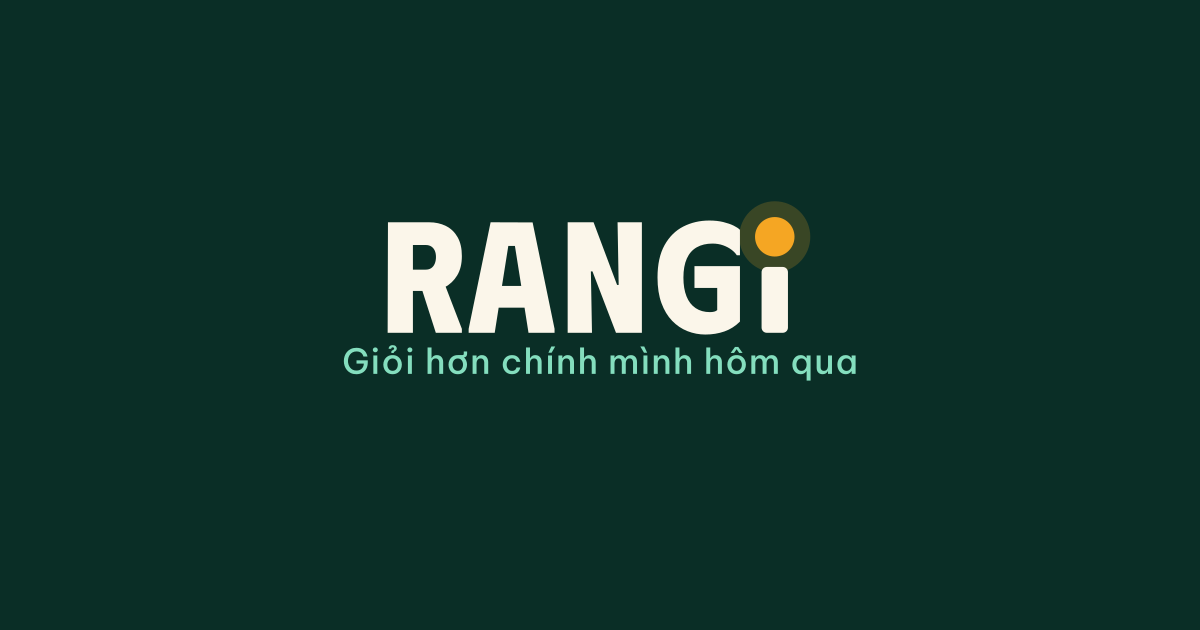
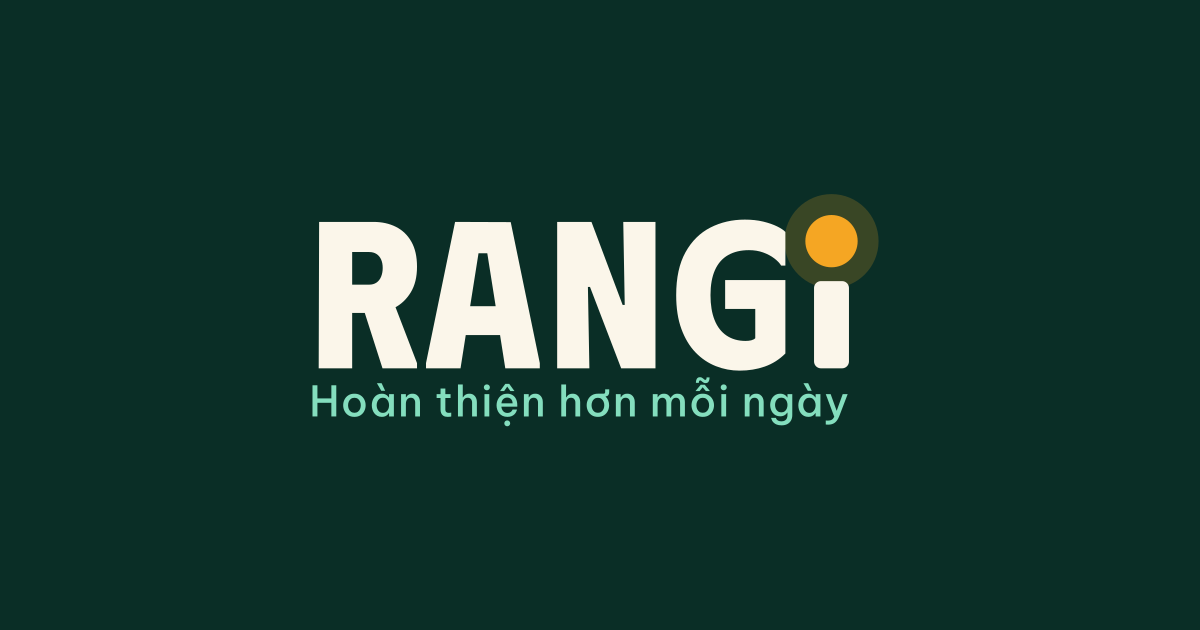
fix: finalize slogans and fit them to the wordmark width
Vietnamese slogan is now 'Hoan thien hon moi ngay', English
'A little brighter every day'. Lockup slogans are rescaled to match the
wordmark's ink width exactly instead of widening the viewBox, so no line
ever spills past the letters. Adds English lockups and a separate
per-language OG image (a bilingual site points og:image at its locale).

Changed region(s): [[0.2467, 0.3016, 0.74, 0.6937]]

diff --git a/CLAUDE.md b/CLAUDE.md
@@ -163,7 +163,7 @@ Chi tiết + lý do: docs/research/nghien-cuu-thuong-hieu.md và nghien-cuu-he-m
 - **Quy tắc màu cứng**: amber KHÔNG BAO GIỜ làm chữ (fail contrast) — chỉ làm nền, chữ tối `#0A2E26` đè lên; câu SAI dùng đỏ `#DE2127` (light) / red-400 (dark text) — LUÔN kèm icon ✗ (mù màu đỏ-lục); ĐÚNG dùng emerald + icon ✓; warning dùng cam cháy (KHÔNG dùng amber — đá vai CTA); dark mode: emerald text → bậc 300/400, amber fill lớn → desaturate `#E6AC4C`; coral `#E07A5F` chỉ trang trí.
 - **Font (phương án C)**: **PhuDu** 500/700 — CHỈ display ≥24px (hero, tiêu đề section, song ngữ — một font cho cả Việt lẫn Anh, không đổi font theo locale); **Be Vietnam Pro** 400/500/700 — heading thường + body; **Inter** variable — UI + số liệu (`font-variant-numeric: tabular-nums`); **Lexend** 400 — chat học sinh. Qua `next/font/google`, subsets `['latin','vietnamese']`, chỉ load weight dùng thật. Line-height tiếng Việt ≥130%; đoạn chứa công thức KaTeX inline cũng ≥130% (KaTeX giữ font toán riêng — chuẩn ngành). CẤM Nunito cho body (lỗi dấu Việt đã ghi nhận).
 - **Mascot**: đom đóm/đốm sáng, sáng dần theo tiến bộ. Mô hình cảm xúc **Forest, không Duolingo**: thưởng cộng dồn, nghỉ = mờ trung tính; CẤM mắt to nhìn chằm chằm (gợi giám sát), CẤM biểu cảm buồn/thất vọng khi sai/nghỉ (trừng phạt cảm xúc). Hai dạng: đốm sáng tối giản (icon) + dạng đầy đủ geometric cho teen (không baby-face).
-- **Triết lý**: "Ngọc bất trác bất thành khí" + "ngọn đèn nhỏ đủ soi một trang sách" — tiến bộ nhỏ đo được, con chỉ so với chính mình hôm qua. **Slogan**: "Giỏi hơn chính mình hôm qua" (EN: "Better than yesterday's you").
+- **Triết lý**: "Ngọc bất trác bất thành khí" + "ngọn đèn nhỏ đủ soi một trang sách" — tiến bộ nhỏ đo được, con chỉ so với chính mình hôm qua. **Slogan (chốt 05/08/2026)**: VN **"Hoàn thiện hơn mỗi ngày"** · EN **"A little brighter every day"**. Trong lockup, slogan luôn fit-to-width bằng khối chữ RANGI; mỗi ngôn ngữ có og:image riêng (`og-image.svg` VN / `og-image-en.svg` EN), không gộp hai ngôn ngữ vào một khung.
 - **CẤM trong branding**: cụm "Đèn Đom Đóm" (trùng chương trình Dutch Lady); mọi ngôn ngữ cấm trong mục Ràng buộc sản phẩm bất biến vẫn áp dụng.
 
 ## Chiến lược test — ĐÃ CHỐT (04/08/2026, xem docs/research/nghien-cuu-chien-luoc-test.md)

diff --git a/TASKS.md b/TASKS.md
@@ -43,6 +43,6 @@ Backlog theo dõi công việc. Quy ước: `[ ]` chưa làm, `[x]` xong, `[~]` 
 - [x] 04/08/2026 — Bộ khung vận hành: CLAUDE.md (Karpathy + phân công architect/subagent + memory + hành xử chuyên nghiệp), memory/, docs/ + index, hooks cưỡng chế, code-reviewer agent, git + GitHub (đã chuyển private)
 - [x] 04/08/2026 — **Chốt tech stack** sau 4 vòng phản biện: Next.js + Django/django-ninja + Celery + Postgres/pgvector + SSE + Nginx + Docker Compose 2 tầng trên VPS + R2 + CI/CD 3 giai đoạn (docs/research/nghien-cuu-tech-stack.md)
 - [x] 04/08/2026 — **Chốt chiến lược test**: pytest/Vitest/Playwright-chromium + 9 quy tắc (mock LLM trong CI, Postgres thật, SymPy ground-truth, chống test giả, eval tách nightly) — CLAUDE.md mục Chiến lược test; checklist code-reviewer đã cập nhật
-- [x] 05/08/2026 — **Chốt bộ nhận diện thương hiệu** (vòng nghiên cứu 11+12): tên RANGI (chờ tra SHTT), màu hổ phách+lục bảo với hệ ramp/semantic 2 mode đầy đủ, font phương án C (PhuDu display + Be Vietnam Pro + Inter + Lexend), mascot đom đóm anti-Duolingo, triết lý "ngọc bất trác"/"ngọn đèn nhỏ", slogan "Giỏi hơn chính mình hôm qua" — CLAUDE.md mục Bộ nhận diện thương hiệu
+- [x] 05/08/2026 — **Chốt bộ nhận diện thương hiệu** (vòng nghiên cứu 11+12): tên RANGI (chờ tra SHTT), màu hổ phách+lục bảo với hệ ramp/semantic 2 mode đầy đủ, font phương án C (PhuDu display + Be Vietnam Pro + Inter + Lexend), mascot đom đóm anti-Duolingo, triết lý "ngọc bất trác"/"ngọn đèn nhỏ", slogan VN "Hoàn thiện hơn mỗi ngày" / EN "A little brighter every day" — CLAUDE.md mục Bộ nhận diện thương hiệu
 - [x] 04/08/2026 — **Scaffold monorepo thực thi xong**: 7 task theo `docs/plans/2026-08-04-scaffold-monorepo-plan.md` — backend Django/django-ninja/Celery, frontend Next.js, deploy compose 2 tầng + Nginx, Makefile/env/pre-commit, CI GitHub Actions, verify E2E trên Docker (4/4 tiêu chí DoD PASS) — bằng chứng: `.superpowers/sdd/2026-08-04-scaffold-monorepo-plan/task-7-report.md`
-- [x] 05/08/2026 — **Gói logo Rangi**: generator fontkit → 12 SVG + component RangiLogo (progress glow, reduced-motion) + 8 PNG exports (spec/plan 2026-08-05)
+- [x] 05/08/2026 — **Gói logo Rangi**: generator fontkit → 15 SVG + component RangiLogo (progress glow, reduced-motion) + 9 PNG exports, slogan fit-to-width + og:image riêng từng ngôn ngữ (spec/plan 2026-08-05)
